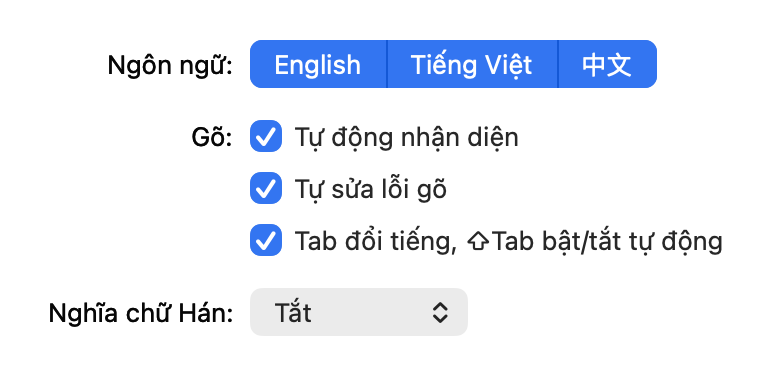
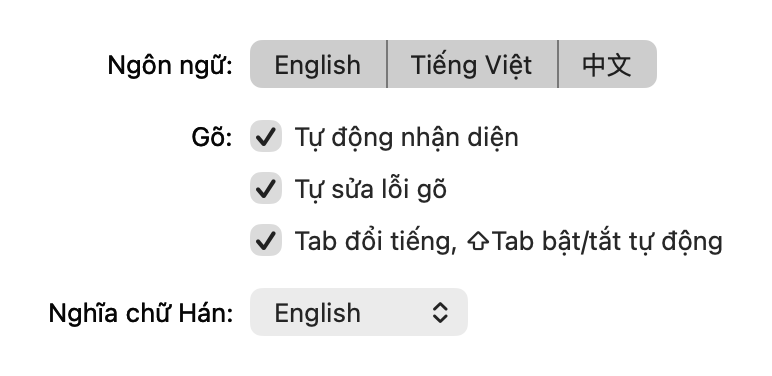
Redo the demo as one mixed-language sentence with Chinese meanings
- Demo types one long sentence that moves between Vietnamese, English and
  Chinese in Auto mode and shows English glosses beside Chinese candidates.
- Encode the GIF with full-size frames; offset sub-frames rendered as broken
  fragments in some viewers. Also write an MP4 for release pages.
- Candidate rows with meanings now span the panel when the footer widens it.

diff --git a/scripts/demo.m b/scripts/demo.m
@@ -28,7 +28,8 @@ static void type(TestController *controller, NSString *input) {
         NSString *ch = [input substringWithRange:NSMakeRange(i, 1)];
         unsigned short code = [ch isEqualToString:@" "] ? kVK_Space : ([ch isEqualToString:@"\t"] ? kVK_Tab : 0);
         NSEvent *event = [NSEvent keyEventWithType:NSEventTypeKeyDown location:NSZeroPoint modifierFlags:0 timestamp:0 windowNumber:0 context:nil characters:ch charactersIgnoringModifiers:ch isARepeat:NO keyCode:code];
-        [controller handleEvent:event client:(id)controller.fake];
+        // Keys the input method passes through (punctuation) reach the app as typed.
+        if (![controller handleEvent:event client:(id)controller.fake] && code != kVK_Tab) [controller.fake.committed appendString:ch];
     }
 }
 static BOOL arrow(TestController *controller, unsigned short key) {
@@ -65,27 +66,49 @@ static void drawPanel(KeyInController *c, NSPoint topLeft) {
         [rep drawInRect:rect fromRect:NSZeroRect operation:NSCompositingOperationSourceOver fraction:1 respectFlipped:YES hints:nil];
     }
 }
-static void frame(TestController *c, NSString *keys, NSString *title, NSString *dir, int index) {
-    NSBitmapImageRep *bitmap = [[NSBitmapImageRep alloc] initWithBitmapDataPlanes:NULL pixelsWide:1000 pixelsHigh:540 bitsPerSample:8 samplesPerPixel:4 hasAlpha:YES isPlanar:NO colorSpaceName:NSDeviceRGBColorSpace bytesPerRow:0 bitsPerPixel:0];
+// One long mixed-language sentence in a plain document window; the real panel sits under the caret.
+static void frame(TestController *c, NSString *keys, NSString *dir, int index) {
+    const CGFloat W = 1000, H = 800;
+    NSBitmapImageRep *bitmap = [[NSBitmapImageRep alloc] initWithBitmapDataPlanes:NULL pixelsWide:W pixelsHigh:H bitsPerSample:8 samplesPerPixel:4 hasAlpha:YES isPlanar:NO colorSpaceName:NSDeviceRGBColorSpace bytesPerRow:0 bitsPerPixel:0];
     [NSGraphicsContext saveGraphicsState];
     NSGraphicsContext.currentContext = [NSGraphicsContext graphicsContextWithBitmapImageRep:bitmap];
-    [[[NSGradient alloc] initWithStartingColor:[NSColor colorWithCalibratedRed:.91 green:.52 blue:.62 alpha:1]
-        endingColor:[NSColor colorWithCalibratedRed:.52 green:.56 blue:.95 alpha:1]] drawInRect:NSMakeRect(0,0,1000,540) angle:-20];
-    label(@"KeyIn",40,468,40,NSColor.whiteColor);
-    label(@"English · Tiếng Việt · 中文 — one input method, on-device",40,436,19,[NSColor colorWithWhite:1 alpha:.85]);
-    label(title,40,380,23,NSColor.whiteColor);
-    [[NSColor colorWithWhite:1 alpha:.92] setFill]; [[NSBezierPath bezierPathWithRoundedRect:NSMakeRect(32,262,936,96) xRadius:16 yRadius:16] fill];
-    NSFont *font = [NSFont systemFontOfSize:34];
-    NSMutableAttributedString *line = [[NSMutableAttributedString alloc] initWithString:c.fake.committed
-        attributes:@{NSFontAttributeName: font, NSForegroundColorAttributeName: NSColor.blackColor}];
-    [line appendAttributedString:[[NSAttributedString alloc] initWithString:c.fake.marked ?: @"" attributes:@{NSFontAttributeName: font,
-        NSForegroundColorAttributeName: NSColor.blackColor, NSUnderlineStyleAttributeName: @(NSUnderlineStyleSingle)}]];
-    [line drawAtPoint:NSMakePoint(60,288)];
-    CGFloat caret = 60 + line.size.width + 2;
-    [[NSColor systemBlueColor] setFill]; NSRectFill(NSMakeRect(caret,288,2,40));
-    CGFloat markedStart = 60 + [[NSAttributedString alloc] initWithString:c.fake.committed attributes:@{NSFontAttributeName: font}].size.width;
-    drawPanel(c, NSMakePoint(MIN(markedStart - 18, 990 - c.panel.frame.size.width), 252));
-    label([NSString stringWithFormat:@"Keys: %@",keys],40,32,19,NSColor.whiteColor);
+    [[NSColor colorWithCalibratedRed:.93 green:.93 blue:.96 alpha:1] setFill]; NSRectFill(NSMakeRect(0,0,W,H));
+    label(@"KeyIn",32,748,30,NSColor.blackColor);
+    label(@"English · Tiếng Việt · 中文 in one sentence — no switching keys, Auto detection per word",32,722,16,NSColor.darkGrayColor);
+    NSRect card = NSMakeRect(24,64,W-48,636);
+    [[NSColor whiteColor] setFill]; [[NSBezierPath bezierPathWithRoundedRect:card xRadius:12 yRadius:12] fill];
+    [[NSColor colorWithWhite:0 alpha:.12] setStroke]; [[NSBezierPath bezierPathWithRoundedRect:NSInsetRect(card,.5,.5) xRadius:12 yRadius:12] stroke];
+    NSFont *font = [NSFont systemFontOfSize:28];
+    NSMutableParagraphStyle *style = [NSMutableParagraphStyle new]; style.lineSpacing = 10;
+    NSMutableAttributedString *text = [[NSMutableAttributedString alloc] initWithString:c.fake.committed
+        attributes:@{NSFontAttributeName: font, NSForegroundColorAttributeName: NSColor.blackColor, NSParagraphStyleAttributeName: style}];
+    NSUInteger markedStart = text.length;
+    [text appendAttributedString:[[NSAttributedString alloc] initWithString:c.fake.marked ?: @"" attributes:@{NSFontAttributeName: font,
+        NSForegroundColorAttributeName: NSColor.blackColor, NSUnderlineStyleAttributeName: @(NSUnderlineStyleSingle), NSParagraphStyleAttributeName: style}]];
+    // Lay the text out to find where the composition starts and where the caret ends.
+    NSTextStorage *storage = [[NSTextStorage alloc] initWithAttributedString:text];
+    NSLayoutManager *layout = [NSLayoutManager new]; [storage addLayoutManager:layout];
+    NSTextContainer *container = [[NSTextContainer alloc] initWithSize:NSMakeSize(card.size.width - 56, CGFLOAT_MAX)];
+    container.lineFragmentPadding = 0; [layout addTextContainer:container];
+    [layout ensureLayoutForTextContainer:container];
+    CGFloat top = NSMaxY(card) - 30;
+    NSRect used = [layout usedRectForTextContainer:container];
+    NSImage *image = [NSImage imageWithSize:NSMakeSize(container.size.width, MAX(used.size.height, 1)) flipped:YES drawingHandler:^BOOL(NSRect r) {
+        [layout drawGlyphsForGlyphRange:NSMakeRange(0, layout.numberOfGlyphs) atPoint:NSZeroPoint]; return YES; }];
+    [image drawAtPoint:NSMakePoint(card.origin.x + 28, top - image.size.height) fromRect:NSZeroRect operation:NSCompositingOperationSourceOver fraction:1];
+    NSRect caretLine = storage.length ? [layout lineFragmentRectForGlyphAtIndex:layout.numberOfGlyphs - 1 effectiveRange:NULL] : NSMakeRect(0,0,0,34);
+    NSPoint end = storage.length ? [layout locationForGlyphAtIndex:layout.numberOfGlyphs - 1] : NSZeroPoint;
+    CGFloat caretX = card.origin.x + 28 + (storage.length ? NSMaxX([layout boundingRectForGlyphRange:NSMakeRange(layout.numberOfGlyphs - 1, 1) inTextContainer:container]) : 0);
+    (void)end;
+    CGFloat lineTop = top - caretLine.origin.y, lineBottom = top - NSMaxY(caretLine);
+    [[NSColor systemBlueColor] setFill]; NSRectFill(NSMakeRect(caretX + 1, lineBottom + 10, 2, lineTop - lineBottom - 14));
+    if (c.raw.length) {
+        NSUInteger glyph = [layout glyphIndexForCharacterAtIndex:MIN(markedStart, storage.length - 1)];
+        CGFloat markX = card.origin.x + 28 + [layout boundingRectForGlyphRange:NSMakeRange(glyph, 1) inTextContainer:container].origin.x;
+        drawPanel(c, NSMakePoint(MIN(markX - 18, W - 12 - c.panel.frame.size.width), lineBottom + 4));
+    }
+    NSString *recent = keys.length > 60 ? [@"…" stringByAppendingString:[keys substringFromIndex:keys.length - 60]] : keys;
+    label([NSString stringWithFormat:@"Keys: %@", recent],32,24,17,NSColor.darkGrayColor);
     [NSGraphicsContext restoreGraphicsState];
     [[bitmap representationUsingType:NSBitmapImageFileTypePNG properties:@{}] writeToFile:[dir stringByAppendingPathComponent:[NSString stringWithFormat:@"%04d.png",index]] atomically:YES];
 }
@@ -103,18 +126,24 @@ static void settingsSnapshot(NSString *dir) {
 int main(int argc,const char **argv) { @autoreleasepool {
     check(argc==4,@"shared data, user data, frames directory required");
     [NSApplication sharedApplication];
-    [NSUserDefaults.standardUserDefaults setVolatileDomain:@{@"AutomaticDetection":@YES,@"Language":@1,@"Autocorrect":@YES,@"EnabledLanguages":@14,@"TabShortcuts":@YES,@"ChineseMeaningLanguage":@0,@"LearnChinese":@NO} forName:NSArgumentDomain];
+    [NSUserDefaults.standardUserDefaults setVolatileDomain:@{@"AutomaticDetection":@YES,@"Language":@1,@"Autocorrect":@YES,@"EnabledLanguages":@14,@"TabShortcuts":@YES,@"ChineseMeaningLanguage":@2,@"LearnChinese":@NO} forName:NSArgumentDomain];
     check([KeyInRime startWithSharedData:@(argv[1]) userData:@(argv[2])],@"Rime startup");
     TestController *c=[TestController alloc]; c.raw=[NSMutableString new]; c.preedit=@""; c.choices=@[]; c.rime=[KeyInRime new]; c.recentLanguages=[NSMutableArray new]; c.fake=[FakeClient new]; c.fake.committed=[NSMutableString new];
-    NSArray *scenes=@[@[@"hello ",@"01  English stays English"],@[@"tieengs ",@"02  Vietnamese Telex: tieengs → tiếng"],@[@"zenmeyang ",@"03  Chinese Pinyin: zenmeyang → 怎么样"],@[@"nhlm ",@"04  Chinese initials after Chinese: nhlm → 你好了吗"],@[@"ban\t\t ",@"05  Tab cycles the word's language: EN → VI → 中"]];
+    // "|" marks a pause so the candidates (and Chinese meanings) can be read before Space.
+    NSString *sentence=@"Hoom nay tooi hojc tieengs Trung voiws my friend. Teacher nois nihao|  nghiax laf hello, xiexie|  nghiax laf thank you. Cuoois tuaanf, women| yiqi| qu chifan|  nhes!";
+    // The demo binary has no app bundle, so load the meanings dictionary from the source tree.
+    c.meanings=[NSJSONSerialization JSONObjectWithData:[NSData dataWithContentsOfFile:@"data/chinese-meanings.json"] options:0 error:nil];
+    check(c.meanings.count>0,@"Chinese meanings loaded");
+    NSMutableString *keys=[NSMutableString new];
     int index=0;
-    for (NSArray *scene in scenes) {
-        [c.fake.committed setString:@""]; NSMutableString *keys=[NSMutableString new];
-        for (NSUInteger i=0;i<[scene[0] length];i++) {
-            NSString *ch=[scene[0] substringWithRange:NSMakeRange(i,1)]; type(c,ch); [keys appendString:[ch isEqual:@" "]?@" [Space]":([ch isEqual:@"\t"]?@" [Tab]":ch)];
-            for(int hold=0;hold<([ch isEqual:@" "]?12:([ch isEqual:@"\t"]?7:2));hold++) frame(c,keys,scene[1],@(argv[3]),index++);
-        }
+    for (int hold=0;hold<8;hold++) frame(c,keys,@(argv[3]),index++);
+    for (NSUInteger i=0;i<sentence.length;i++) {
+        NSString *ch=[sentence substringWithRange:NSMakeRange(i,1)];
+        if ([ch isEqual:@"|"]) { for(int hold=0;hold<14;hold++) frame(c,keys,@(argv[3]),index++); continue; }
+        type(c,ch); [keys appendString:ch];
+        for(int hold=0;hold<([ch isEqual:@" "]?3:1);hold++) frame(c,keys,@(argv[3]),index++);
     }
+    for (int hold=0;hold<30;hold++) frame(c,keys,@(argv[3]),index++);
     settingsSnapshot(@(argv[3]));
     return 0;
 }}

diff --git a/native/main.m b/native/main.m
@@ -455,7 +455,7 @@ static NSImage *roundedMask(CGFloat radius) {
     CGFloat width, height;
     BOOL more = pages > 1;
     if (showMeanings) {
-        width = 520;
+        width = MAX(520, statusWidth); // Rows span the panel even when the footer widens it.
         CGFloat y = footerHeight + inset;
         CGFloat textWidth = width - 2 * inset - 2 * itemPadding;
         // Lay rows out bottom-up so the first candidate ends on top.

diff --git a/README.md b/README.md
@@ -4,10 +4,12 @@
 
 ![KeyIn animated typing demo](docs/media/keyin-demo.gif)
 
-The animation records real KeyIn controller and Rime output, one keystroke at a
-time, with KeyIn's actual candidate panel drawn into a demonstration layout (not a
-TextEdit screen recording). It shows English, Vietnamese Telex, Chinese Pinyin,
-contextual initials, and switching a word's language with Tab.
+One sentence, typed key by key in Auto mode, moves between Vietnamese Telex,
+English and Chinese Pinyin without any switching key: `tieengs` becomes *tiếng*,
+`my friend` stays English, `nihao` becomes 你好, and Chinese candidates show their
+English meanings while you choose. The animation records real KeyIn controller
+and Rime output with KeyIn's actual candidate panel drawn into a document layout
+(it is not a screen recording).
 Reproduce it after building with `./scripts/record-demo.sh` (requires FFmpeg).
 
 **Status:** experimental 0.4 preview · **License:** LGPL-3.0-or-later
